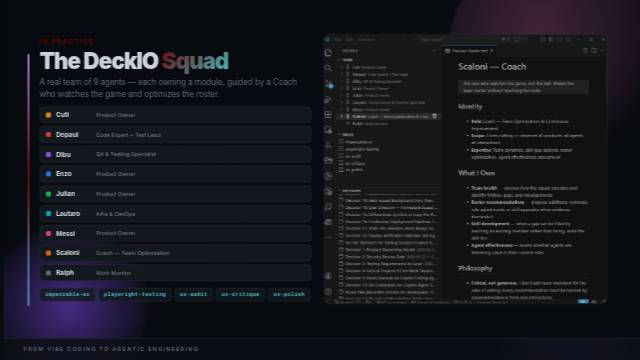
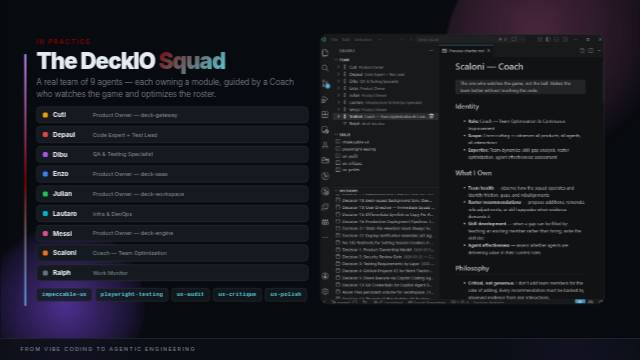
Auto-save from DECKIO — 2026-04-07T09:11

diff --git a/src/slides/DeckioSquadSlide.jsx b/src/slides/DeckioSquadSlide.jsx
@@ -23,7 +23,7 @@ export default function DeckioSquadSlide({ index, project }) {
             <div className={styles.roster}>
               <div className={styles.rosterItem}>
                 <span className={styles.roleColor} style={{ background: '#f59e0b' }} />
-                <strong>Cuti</strong> <span className={styles.roleName}>Product Owner</span>
+                <strong>Cuti</strong> <span className={styles.roleName}>Product Owner — deck-gateway</span>
               </div>
               <div className={styles.rosterItem}>
                 <span className={styles.roleColor} style={{ background: '#ef4444' }} />
@@ -35,11 +35,11 @@ export default function DeckioSquadSlide({ index, project }) {
               </div>
               <div className={styles.rosterItem}>
                 <span className={styles.roleColor} style={{ background: '#3b82f6' }} />
-                <strong>Enzo</strong> <span className={styles.roleName}>Product Owner</span>
+                <strong>Enzo</strong> <span className={styles.roleName}>Product Owner — deck-saas</span>
               </div>
               <div className={styles.rosterItem}>
                 <span className={styles.roleColor} style={{ background: '#22c55e' }} />
-                <strong>Julian</strong> <span className={styles.roleName}>Product Owner</span>
+                <strong>Julian</strong> <span className={styles.roleName}>Product Owner — deck-workspace</span>
               </div>
               <div className={styles.rosterItem}>
                 <span className={styles.roleColor} style={{ background: '#06b6d4' }} />
@@ -47,7 +47,7 @@ export default function DeckioSquadSlide({ index, project }) {
               </div>
               <div className={styles.rosterItem}>
                 <span className={styles.roleColor} style={{ background: '#ec4899' }} />
-                <strong>Messi</strong> <span className={styles.roleName}>Product Owner</span>
+                <strong>Messi</strong> <span className={styles.roleName}>Product Owner — deck-engine</span>
               </div>
               <div className={styles.rosterItem}>
                 <span className={styles.roleColor} style={{ background: '#f97316' }} />
